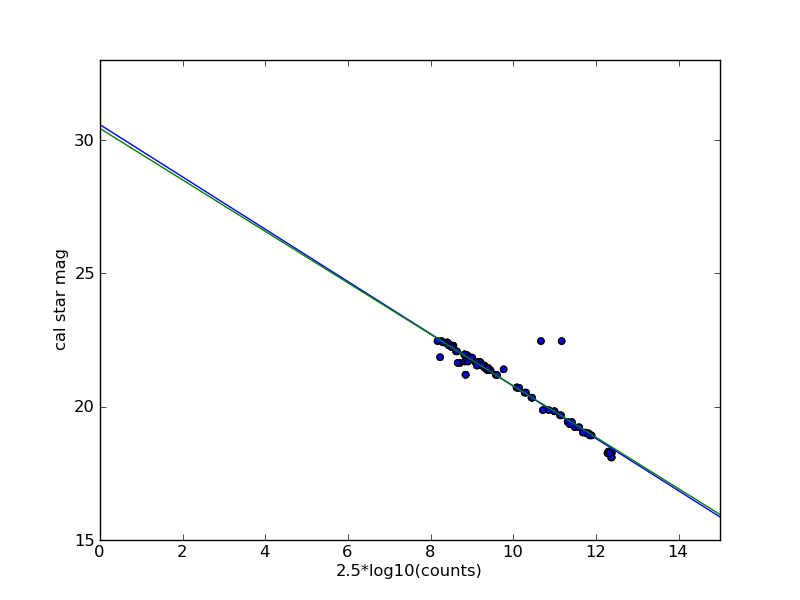
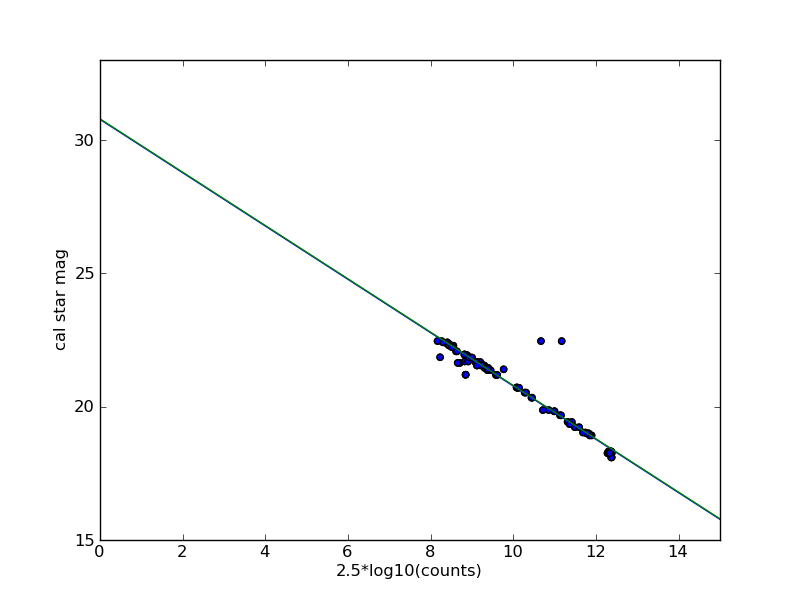
testing 2 images std 15

diff --git a/galsim_iter.py b/galsim_iter.py
@@ -73,7 +73,8 @@ class GalsimKernel:
                  , background_mesh_median_filter_size = 3 # A value of one means no filter is applied
                  , write_to_file_img_num = 0
                  , SN_counts_guesses = None
-                 , noiminal_zero_point = 31.6 #from starcals
+                 , noiminal_zero_point = 32.0 #from starcals
+                 , sn_stdev = 10
                  ):
 
         if real_images is None:
@@ -117,6 +118,7 @@ class GalsimKernel:
             \n\treal_images\n\tweights_files\n\tpsf_files\n\tgalpso_ras\n\tgalpos_decs\n\twhich_filters\n\texposure_nums\n\tccd_nums')
 
         self.run_time = run_time
+        self.model_img_index = model_img_index
         self.exposure_nums = np.array(exposure_nums)
         self.ccd_nums = np.array(ccd_nums)
         self.which_filters = np.array(which_filters,dtype='string')
@@ -141,6 +143,7 @@ class GalsimKernel:
         self.galpos_backgrounds = np.zeros( len( galpos_ras ) )
         self.stamp_RA = float( stamp_RA )
         self.stamp_DEC = float( stamp_DEC )
+        self.sn_stdev = sn_stdev
 
         self.satisfactory = satisfactory
         self.trim_edges = trim_edges
@@ -256,7 +259,7 @@ class GalsimKernel:
 
 
         # SET THE MODEL TO THE REAL DATA SPECIFIED BY THE INDEX GIVEN
-        self.model = self.real_data_stamps[model_img_index].array - self.galpos_backgrounds[0]
+        self.model = self.real_data_stamps[self.model_img_index].array - self.galpos_backgrounds[0]
         self.model = np.ascontiguousarray(np.flipud(np.fliplr(self.model.T)))
 
         self.real_data_stamps_pixelated = []
@@ -292,26 +295,30 @@ class GalsimKernel:
 
         #add option here to load zeropoints instead of calclate
         zptfile = os.path.join(self.outdir,'zero_points.npz')
-        continu = self.check_if_all_zero_points_already_exist(zptfile)
-        print 'checking'
-        #continu = False
-        if not continu:
-            print 'Are you sure you want to continue? you may be overwriting zeropoint infomration if the npz file has not changed....'
-            raw_input()
-            self.get_zeropoint_multiplicative_factor()
+        #continu = self.check_if_all_zero_points_already_exist(zptfile)
+        #print 'checking'
+        ##continu = False
+        #if not continu:
+        #    print 'Are you sure you want to continue? you may be overwriting zeropoint infomration if the npz file has not changed....'
+        #    raw_input()
+        #    self.get_zeropoint_multiplicative_factor()
         #raw_input()
-        print 'Done with zeropoints'
+        #print 'Done with zeropoints'
         #self.what_are_the_zpt_outliers()
         
         #  NOT WORKING!!!!!!
-        self.get_real_images_on_same_zpt()
+        #print self.real_img_files[0]
+        #self.fit_image_zero_point( self.mean_star_counts[0], self.star_mags[0])
+        #print self.real_img_files[1]
+        #self.fit_image_zero_point( self.mean_star_counts[1], self.star_mags[1])
+        #self.get_real_images_on_same_zpt()
 
 
-        for epoch in np.arange(len(self.galpos_ras)):
-            real_data_filename = 'test_data_expo'+str(int(self.exposure_nums[epoch]))+'_out_zeropointed.fits'
-            real_data_file_out = os.path.join( self.outdir, real_data_filename )
-            os.system('rm '+real_data_file_out)
-            pf.writeto(real_data_file_out, self.real_data_stamps_trimmed[epoch])
+        #for epoch in np.arange(len(self.galpos_ras)):
+        #    real_data_filename = 'test_data_expo'+str(int(self.exposure_nums[epoch]))+'_out_zeropointed.fits'
+        #    real_data_file_out = os.path.join( self.outdir, real_data_filename )
+        #    os.system('rm '+real_data_file_out)
+        #    pf.writeto(real_data_file_out, self.real_data_stamps_trimmed[epoch])
         
         #real_data_filename_beforepix = 'test_data_out_before_pix.fits'
         #real_data_file_out_beforepix = os.path.join( self.outdir, real_data_filename_beforepix )
@@ -339,7 +346,7 @@ class GalsimKernel:
         self.chisq = []
         self.chisq.append(9999)
         self.model_pixels = []
-        [ self.model_pixels.append([]) for i in np.nditer(self.real_data_stamps_ravel[model_img_index])]
+        [ self.model_pixels.append([]) for i in np.nditer(self.real_data_stamps_ravel[self.model_img_index])]
 
         self.pixel_history = []
         self.sn_flux_history = []
@@ -542,7 +549,7 @@ class GalsimKernel:
         #print 'model created'
         return
 
-    def adjust_cal_star_model( self, stdev = 100):        
+    def adjust_cal_star_model( self , stdev = 10): 
         self.kicked_cal_flux = self.cal_flux
         self.kicked_cal_flux += np.random.normal( scale = stdev )
         #print 'kicked flux: ' +str(self.kicked_cal_flux)
@@ -588,14 +595,13 @@ class GalsimKernel:
         return 
 
     '''
-       Force slope to be 2.5 on fit of m vs logC. fit for zpt
+       Force slope to be -1 on fit of m vs 2.5logC. fit for zpt
     '''
     def fit_image_zero_point(self, star_counts, star_mags):
         #slope = -2.5
-        zpts = []
-        chisqs = []
+
         P.scatter(2.5*np.log10(star_counts),star_mags)
-        slope, zero_point, r_value, p_value, std_err = stats.linregress(float(2.5)*np.log10(star_counts),star_mags)
+        #slope, zero_point, r_value, p_value, std_err = stats.linregress(float(2.5)*np.log10(star_counts),star_mags)
 
         out = os.path.join(self.outdir,'zero_point_one_image.png')
         P.xlabel('2.5*log10(counts)')
@@ -607,11 +613,24 @@ class GalsimKernel:
         P.xlabel('2.5*log10(counts)')
         P.ylabel('cal star mag')
 
-        P.plot(np.arange(0.,100.,1.),slope*np.arange(0.,100.,1.)+zero_point)
+
+        zpts = []
+        chisqs = []
+        for zpt in np.arange(20,40,.001):
+            zpts.append(zpt)
+            expected_mags = -2.5*np.log10(star_counts) + zpt
+            #print expected_mags
+            #print star_mags
+            #raw_input()
+            chisqs.append( stats.chisquare(star_mags,f_exp=expected_mags)[0] )
+        zpts = np.array(zpts)
+        chisqs = np.array(chisqs)
+        zero_point = zpts[np.argmin(chisqs)]
+
+        P.plot(np.arange(0.,100.,1.),-1*np.arange(0.,100.,1.)+zero_point)
         out = os.path.join(self.outdir,'zero_point_one_image_Secnd.png')
         P.savefig(out)
         print 'zpt: '+str(zero_point)
-        #raw_input()
         return zero_point
 
 
@@ -619,7 +638,9 @@ class GalsimKernel:
        multiply image x10^(-.4(zpti - zpt0))
     '''
     def get_multiplicative_factor( self, zero_point ):
+        #mult = 10**(-.4*(zero_point-self.nominal_zpt))
         mult = 10**(-.4*(self.nominal_zpt-zero_point))
+        
         return mult
 
     '''
@@ -633,8 +654,12 @@ class GalsimKernel:
             print self.get_multiplicative_factor(self.image_zero_points[epoch])
             print self.real_data_stamps_ravel[epoch]
             self.real_data_stamps_ravel[epoch] = self.real_data_stamps_ravel[epoch]*self.get_multiplicative_factor(self.image_zero_points[epoch])
+            if epoch == self.model_img_index:
+                self.model = self.model * self.get_multiplicative_factor(self.image_zero_points[epoch])
             print self.real_data_stamps_ravel[epoch]
-            #raw_input()
+            print self.galpos_backgrounds[epoch]
+            print self.real_data_stamps_ravel[epoch] - self.galpos_backgrounds[epoch]
+            raw_input()
         return
 
     """
@@ -802,7 +827,9 @@ class GalsimKernel:
     """
     Adjusting the guess for the location and flux of the supernova
     """
-    def adjust_sn( self, stdev = 10):        
+    def adjust_sn( self): 
+        stdev = self.sn_stdev       
+       
         self.kicked_sns = self.sns
         self.kicked_SN_fluxes = self.SN_fluxes
         for epoch in np.arange(len(self.sns)):
@@ -1133,8 +1160,8 @@ if __name__=='__main__':
     #image_nums = [0,17,21,26]
     #SN_counts_guesses = [0,1,1,1]
 
-    image_nums = [0]
-    SN_counts_guesses = [0]
+    image_nums = [0,1]
+    SN_counts_guesses = [0,2000]
 
     real_images, weights_files, psf_files, star_dicts, filters, galpos_ras, galpos_decs, exposure_nums, ccd_nums = read_query( query_file, image_dir, image_nums )
 
@@ -1150,9 +1177,10 @@ if __name__=='__main__':
                         , galpos_ras = galpos_ras
                         , galpos_decs = galpos_decs
                         , results_tag = 'pix_1arcsec'
-                        , run_time = 60
+                        , run_time = 100
                         , write_to_file_img_num = 2
                         , SN_counts_guesses = SN_counts_guesses
+                        , sn_stdev = 15
                         )
     
     test.run()
